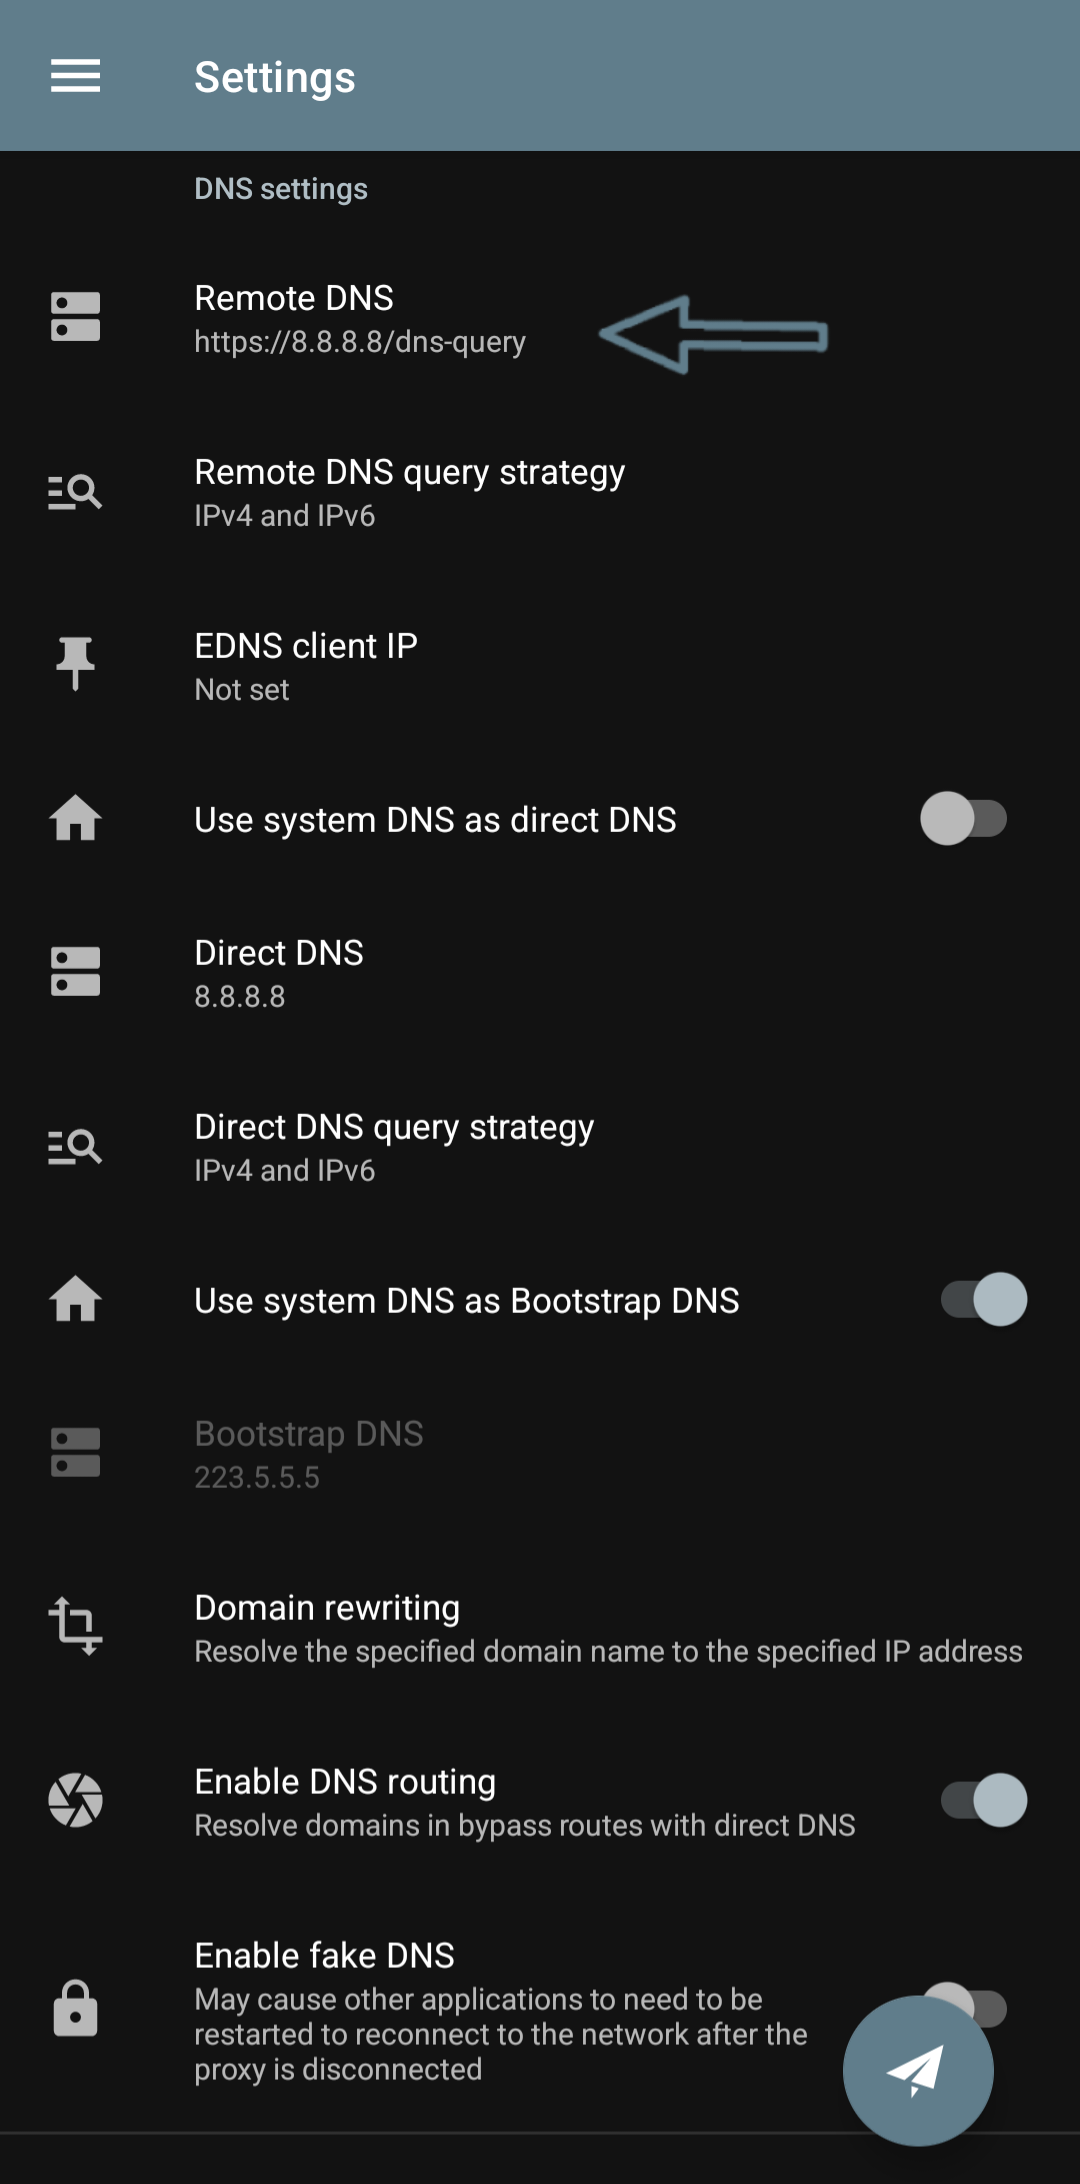
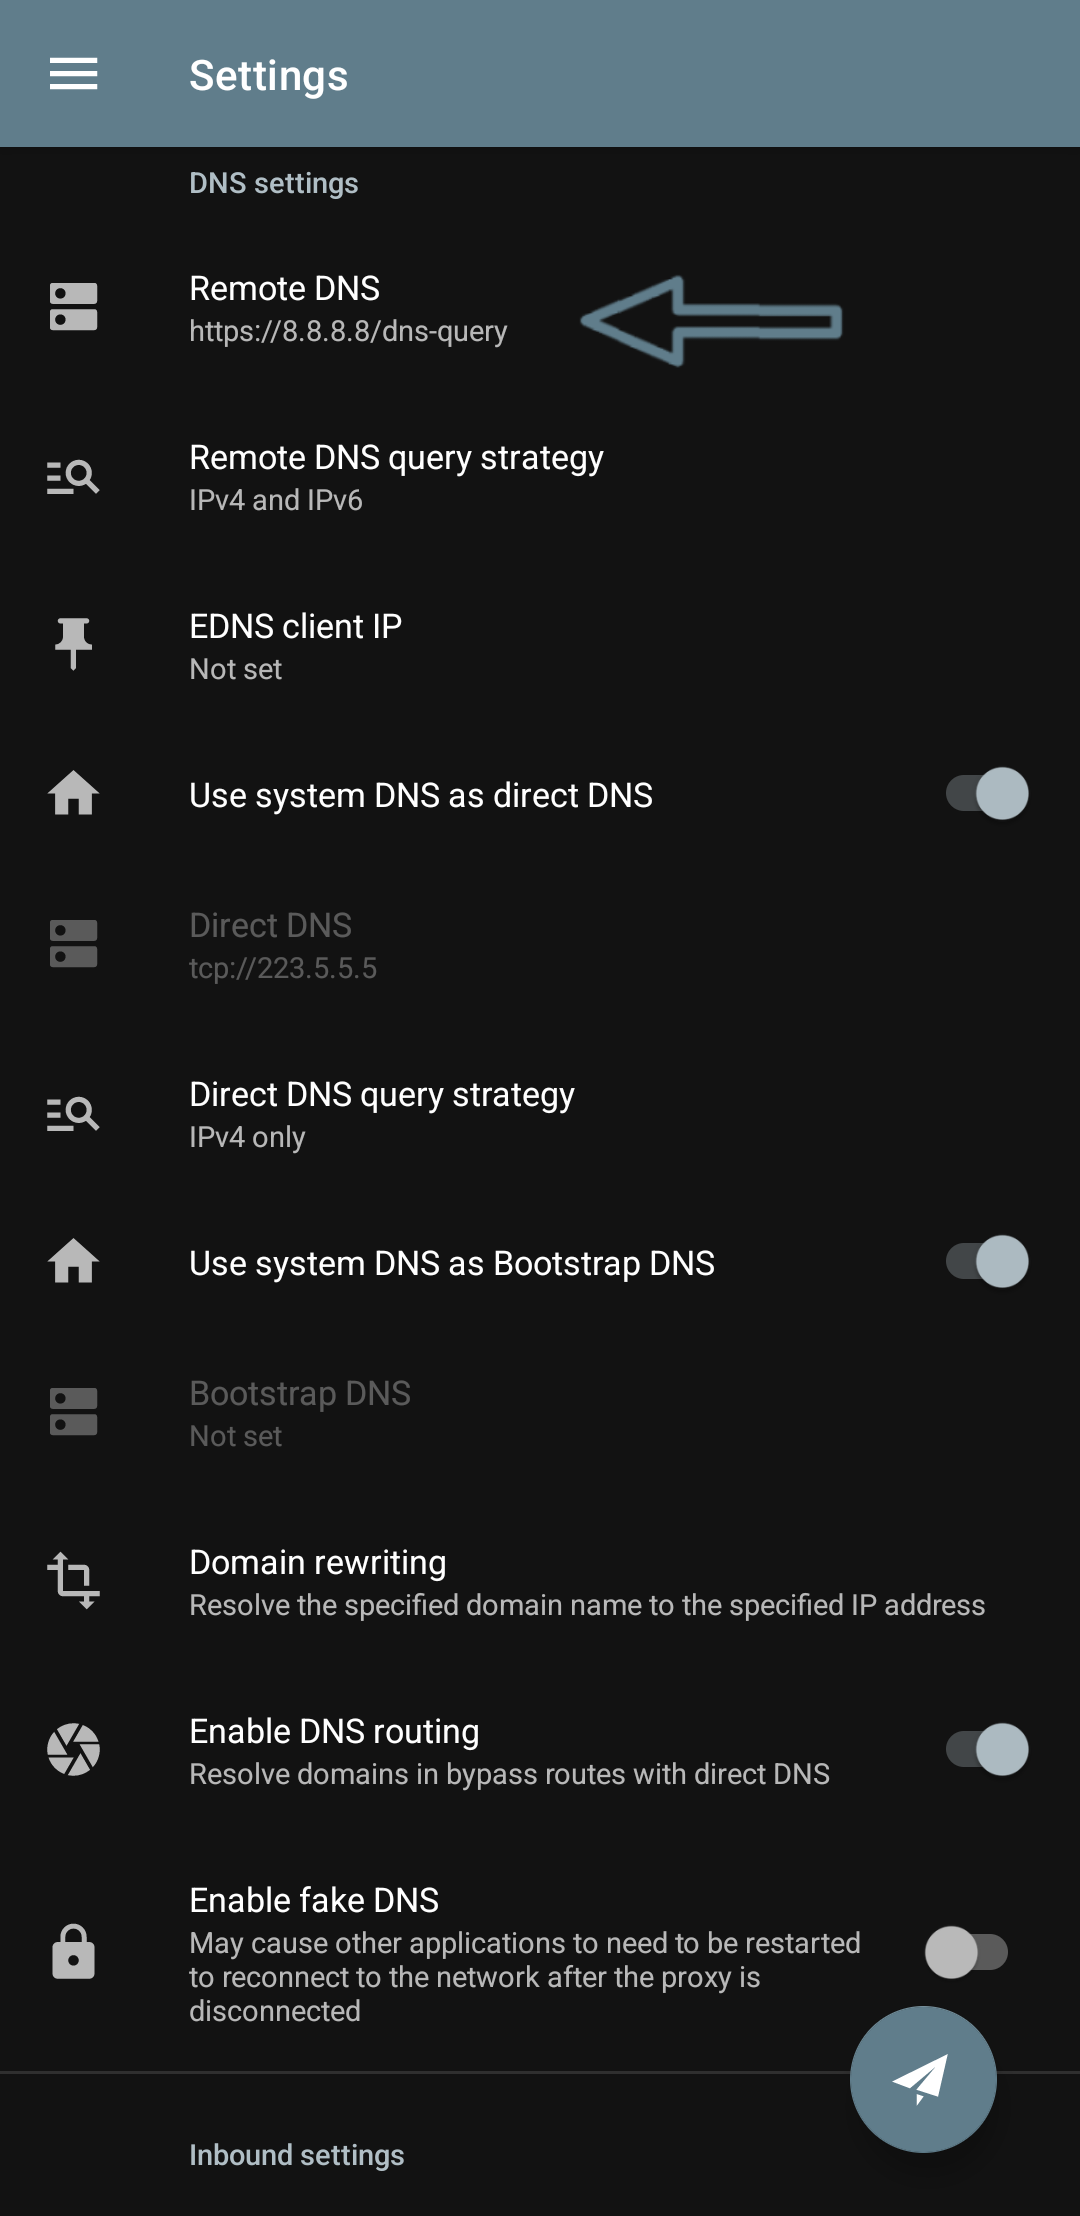
build: add npm config files

diff --git a/docs/topics/nekobox.md b/docs/topics/nekobox.md
@@ -530,9 +530,9 @@ https://9.9.9.9/dns-query
 
 - **چرا مهمه؟** اگه ISPت DNS رو مسدود یا دستکاری کنه، سایتهای داخلی لود نمیشن.
 
-- **پیشنهاد:** توی تنظیمات Exclave، گزینه "Use system DNS as Direct DNS" رو خاموش کن و تو کادر زیرش که نوشته "Direct DNS" بیا و `tcp://8.8.8.8` بذار تا فیکس همیشه از گوگل استفاده کنه، تو ایران TCP اون فیلتر نیست و سریعم که هست و دیگه آدم کور مگه از خدا چی میخواد؟؟
+- **پیشنهاد:** توی تنظیمات Exclave، گزینه "Use system DNS as Direct DNS" فکر کنم پیشفرض روشن باشه اگه نبود خودت اونو روشن کن تا از DNSهای پیشفرض استفاده کنه.
 
-برای Nekobox هم به همین شکله فقط دیگه اون گزیه رو نداره که روشن یا خاموش بکنید، توی نکوباکس اکه توی کادر Direct DNS بنویسی `local` همینجوری با حروف کوچیک اونوقت از دیاناس داخلی اندروید استفاده میکنه و میتونی بذاری لوکال بمونه یا که مثل توضیح پاراگراف قبلی اینجاهم `tcp://8.8.8.8` قرار بدی.
+- **برای Nekobox** هم به همین شکله فقط دیگه اون دکمهای برای روشن یا خاموش کردن نداره، توی نکوباکس اکه توی کادر Direct DNS بنویسی local همینجوری با حروف کوچیک اونوقت از دیاناس داخلی اندروید استفاده میکنه، میتونی بذاری لوکال بمونه یا که یه TCP یا DoH مثل اختیاری در اون قسمت قرار بدی تا از دیفالت دربیاد. 
 
 همچنین میتونی یه DNS سرور عمومی بیطرف و بی دردسر و فیلتر نشده مثل علیبابا استفاده کنی، در اینصورت بازم همونطور که بالاتر گفتم باید اول گزینه `Use system DNS as Direct dns` رو خاموش کنی بعد اقدام کنی برای قرار دادن سرور دلخواه تو کادر زیرش، این علی باباعه:
 
@@ -547,7 +547,7 @@ https://223.5.5.5/dns-query
 
 ::: tip **سفارشی سازی**
 
-اگه میخوای سفارشی کنی میتونی، از DNSهای خوب ایرانی مثل شِکَن یا الکترو استفاده کنی تا سایتهای داخلی سریعتر باز شن. توی هردو کلاینت مشابهه، تو این آدرس میتونی پیداش کنی:
+اگه میخوای سفارشی کنی میتونی، از DNSهای خوب ایرانی مثل شِکَن یا زیرساخت استفاده کنی تا سایتهای داخلی سریعتر باز شن. توی هردو کلاینت مشابهه، تو این آدرس میتونی پیداش کنی:
 
 <Ltr>
 
@@ -559,10 +559,10 @@ https://223.5.5.5/dns-query
 178.22.122.100
 ```
 
-**Electro DNS**
+**Zirsakht DNS**
 
 ```
-78.157.42.100
+217.218.127.127
 ```
 
 </Ltr>
@@ -645,7 +645,7 @@ http://cp.cloudflare.com
 <Ltr>
 
 ```
-https://www.google.com/generate_204
+https://www.gstatic.com/generate_204
 ```
 
 </Ltr>
@@ -685,7 +685,7 @@ https://clients3.google.com/generate_204
 
 - https://clients3.google.com/generate_204
 
-- https://www.google.com/gen_204
+- https://www.google.com/generate_204
 
 - https://api.v2fly.org/checkConnection.svgz
 
@@ -1021,14 +1021,14 @@ https://www.gstatic.com/generate_204
 - [مخزن لینکهای ساب][3]
 
 [1]: https://github.com/MatsuriDayo/NekoBoxForAndroid/releases
-[2]: https://t.me/new_folder_revil/3552
+[2]: https://t.me/new_folder_revil/3628
 [3]: https://github.com/NiREvil/vless/ 
 [4]: https://t.me/new_folder_revil/3566
 [5]: https://github.com/dyhkwong/Exclave/releases
 [6]: https://t.me/F_NiREvil/5123
 [7]: https://t.me/F_NiREvil/5518
 [8]: https://t.me/new_folder_revil/3564
-[9]: https://t.me/new_folder_revil/3615
+[9]: https://t.me/new_folder_revil/3630
 [10]: https://www.dnsleaktest.com/
 [11]: https://t.me/F_NiREvil/620
 [12]: https://github.com/NiREvil/vless/tree/main/DNS%20over%20HTTPS/Azadi-DNS
